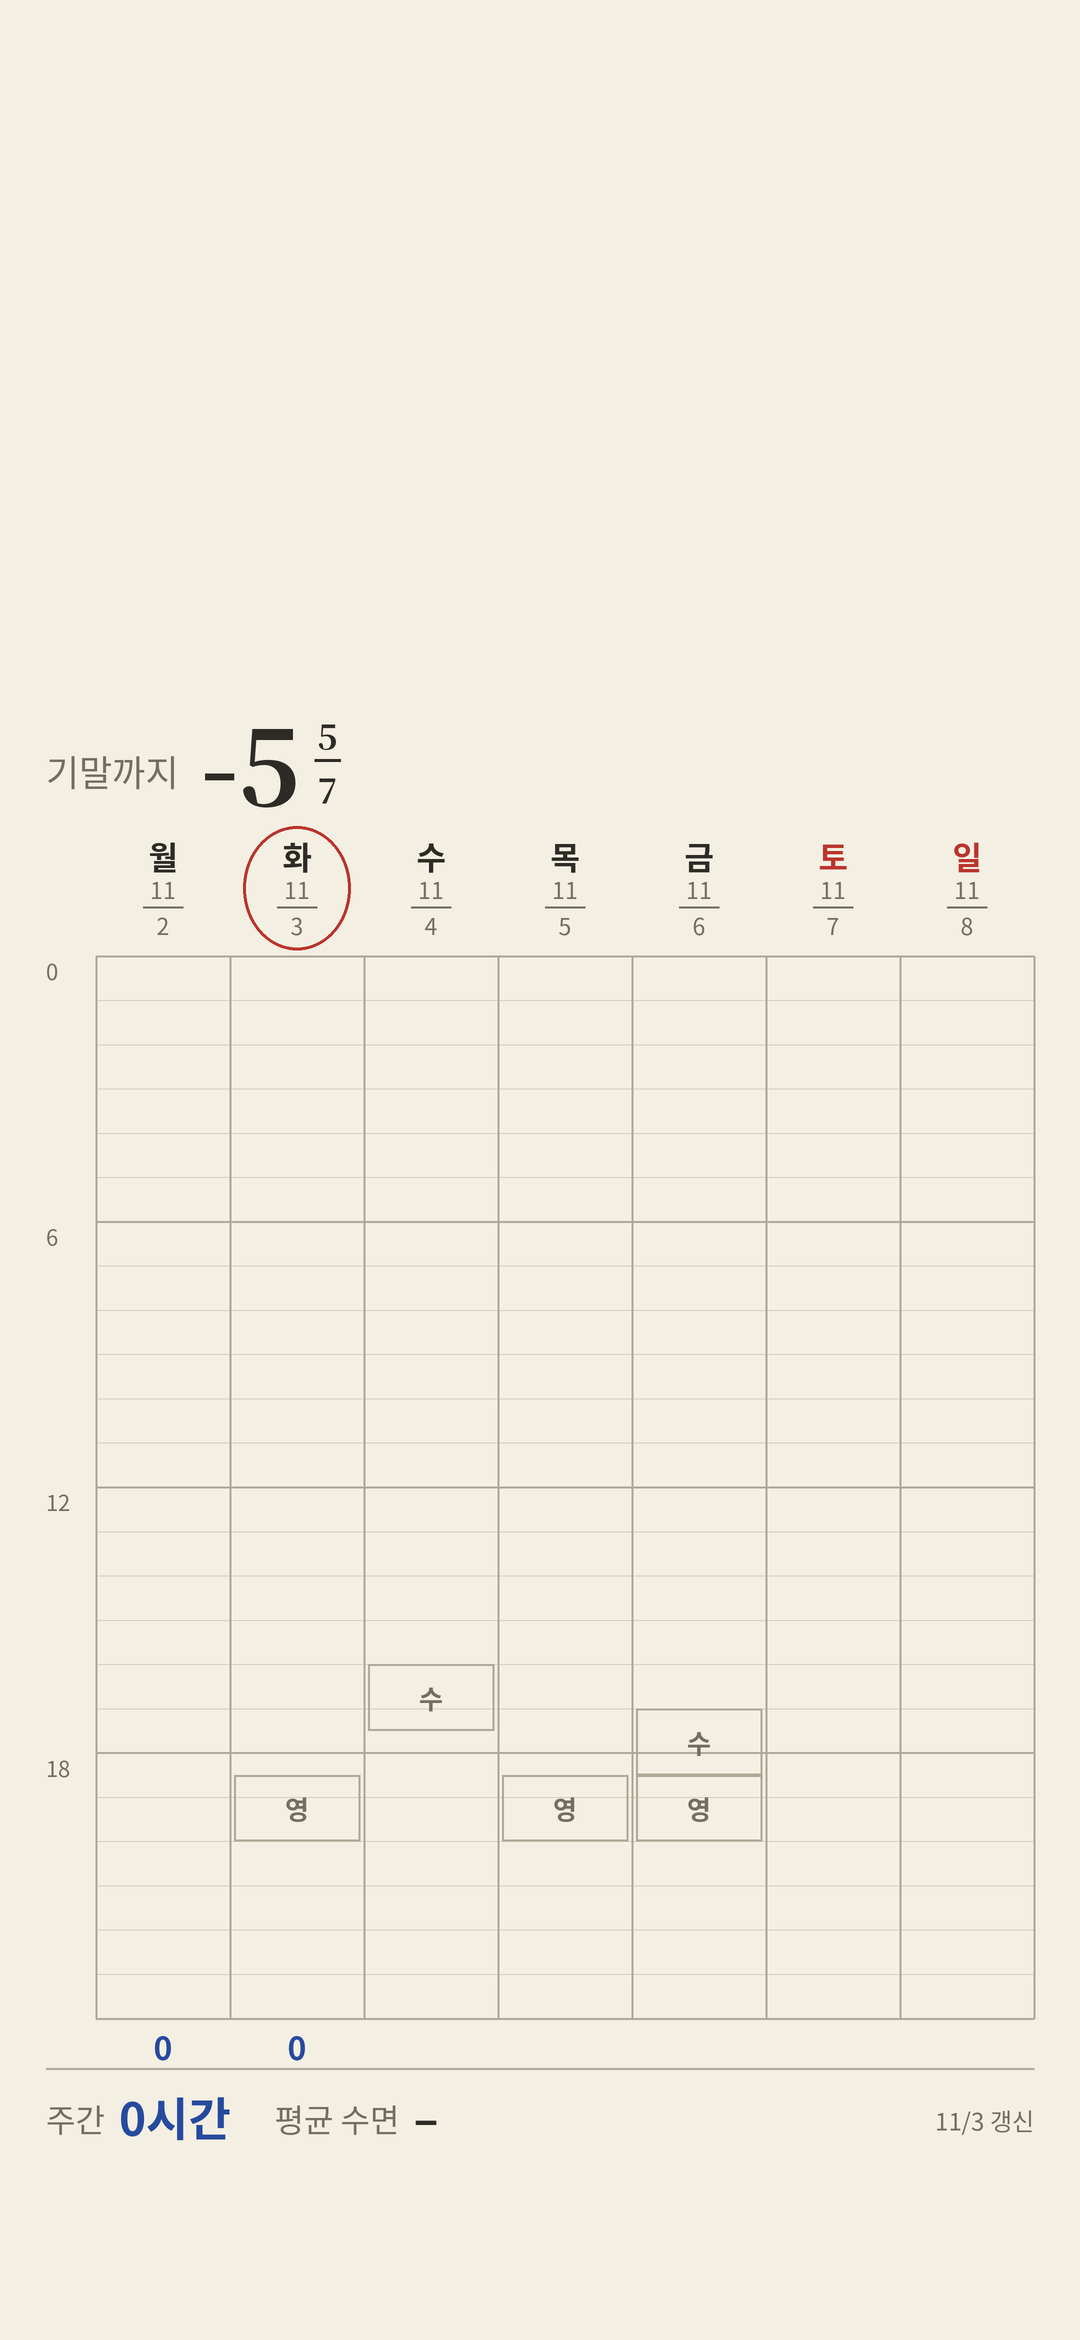
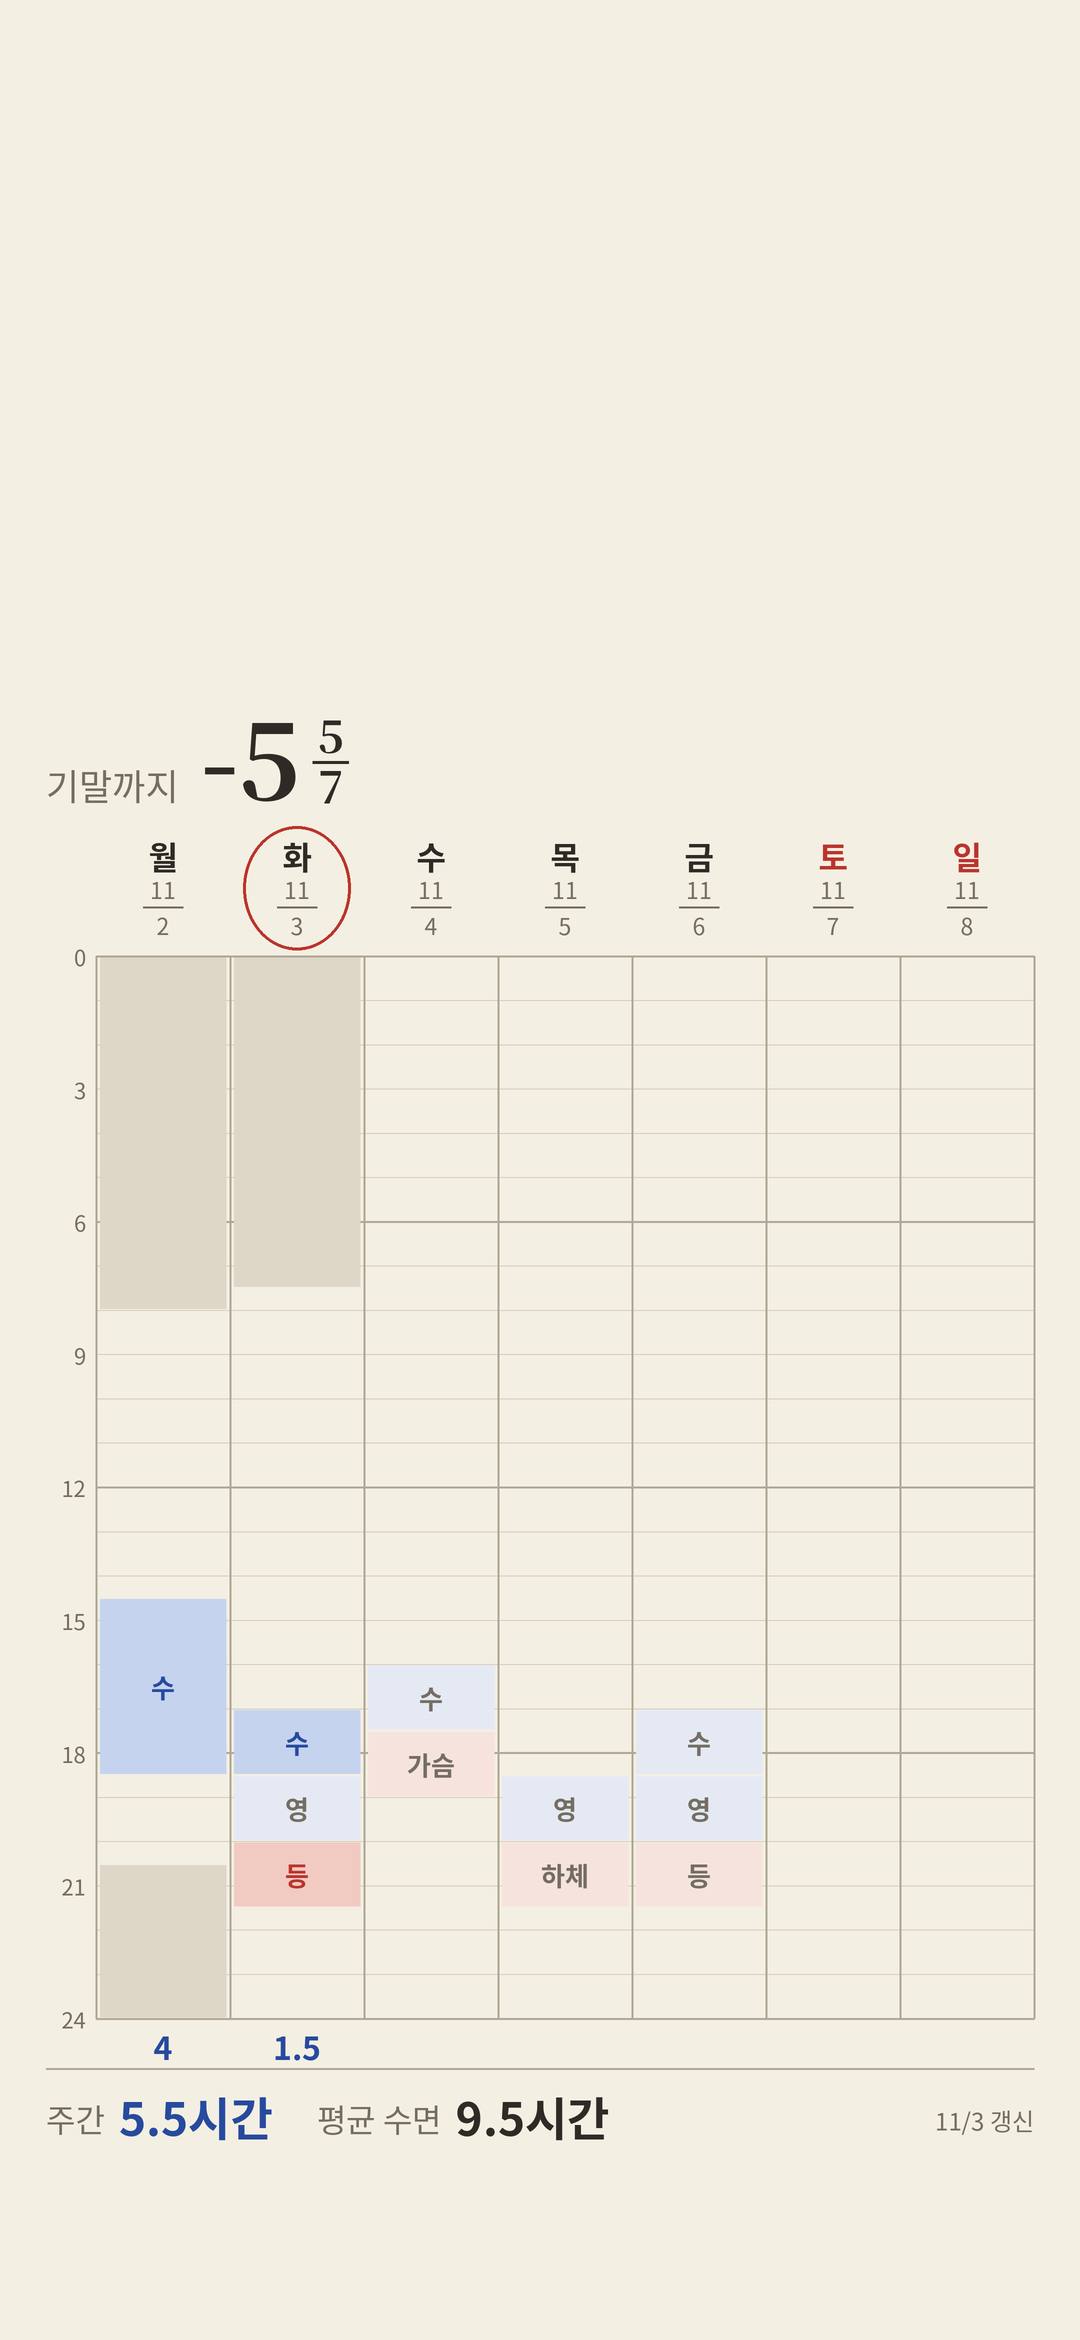
Soft fills, mixed-number countdown, aligned hour labels, workout rotation
Claude-Session: https://claude.ai/code/session_016sgH3U9eL8kEJgSR4TfZt2

diff --git a/make.py b/make.py
@@ -22,10 +22,13 @@ RULE_STRONG = (176, 168, 150)
 INK = (46, 43, 38)
 INK_SOFT = (116, 110, 98)
 BLUE = (38, 74, 158)
-BLUE_FILL = (58, 92, 172)
 RED = (186, 52, 44)
-RED_FILL = (196, 70, 58)
-SLEEP = (150, 144, 130)
+# 칠하기는 선 없이 연한 색으로 칸 전체를 채운다.
+BLUE_FILL = (198, 211, 238)    # 한 공부
+RED_FILL = (241, 202, 194)     # 한 공부 외
+SLEEP_FILL = (222, 215, 200)   # 수면
+BLUE_PLAN = (228, 233, 244)    # 해야 할 공부 (더 흐리게)
+RED_PLAN = (247, 227, 221)     # 해야 할 운동·일정
 TOP_EMPTY = 0.30      # 위쪽 시계 자리
 BOTTOM_EMPTY = 0.075  # 아래쪽 잠금화면 단축 아이콘 자리
 SS = 2                # 2배로 그린 뒤 줄여 선을 매끄럽게 한다
@@ -72,31 +75,32 @@ def box_text(g, box, s, color, u):
         g.text(((box[0] + box[2]) / 2, (box[1] + box[3]) / 2), s, font=f, fill=color, anchor="mm")
 
 
-def hatch(g, box, color, step, width):
-    """수면 칸의 빗금: 칸 안에 들어오는 45도 선만 그린다."""
-    x0, y0, x1, y1 = box
-    w, h = x1 - x0, y1 - y0
-    for c in range(int(step), int(w + h), int(step)):
-        ax, ay = (x0 + c, y0) if c <= w else (x1, y0 + c - w)
-        bx, by = (x0, y0 + c) if c <= h else (x0 + c - h, y1)
-        g.line((ax, ay, bx, by), fill=color, width=width)
-
-
 def header(g, data, today, W, L, R, y, u):
-    """머리말: 내 노트 표기 그대로 -N주 + 일 단위 분수."""
+    """머리말: 남은 기간을 주 단위 대분수로 (-5 5/7 = 5주 5일)."""
     exam = data.get("exam")
     if not exam:
         return y + 136 * u
     left = (datetime.date.fromisoformat(exam["date"]) - today).days
     weeks, rest = divmod(max(left, 0), 7)
-    fs, fb, ff = font(SANS, int(36 * u)), font(SERIF, int(104 * u)), font(SERIF, int(34 * u))
-    g.text((L, y + 42 * u), f"{exam['name']}까지", font=fs, fill=INK_SOFT)
-    x = L + text_w(g, f"{exam['name']}까지", fs) + 22 * u
-    g.text((x, y - 16 * u), f"-{weeks}", font=fb, fill=INK)
-    x += text_w(g, f"-{weeks}", fb) + 14 * u
-    g.text((x + 3 * u, y + 8 * u), str(rest), font=ff, fill=INK)
-    g.line((x, y + 58 * u, x + 26 * u, y + 58 * u), fill=INK, width=max(2, int(3 * u)))
-    g.text((x + 3 * u, y + 62 * u), "7", font=ff, fill=INK)
+    fs, fb, ff = font(SANS, int(36 * u)), font(SERIF, int(104 * u)), font(SERIF, int(44 * u))
+    base = y + 98 * u
+    name = f"{exam['name']}까지"
+    g.text((L, base), name, font=fs, fill=INK_SOFT, anchor="ls")
+    x = L + text_w(g, name, fs) + 22 * u
+    whole = f"-{weeks}" if weeks or not rest else "-"
+    g.text((x, base), whole, font=fb, fill=INK, anchor="ls")
+    top, bot = g.textbbox((x, base), whole, font=fb, anchor="ls")[1::2]
+    mid = (top + bot) / 2
+    if rest:
+        # 분수는 정수 부분 글자의 가운데 높이에 맞춰 세운다.
+        x += text_w(g, whole, fb) + 12 * u
+        digit_h = g.textbbox((0, 0), "7", font=ff, anchor="ls")
+        digit_h = digit_h[3] - digit_h[1]
+        fw = max(text_w(g, str(rest), ff), text_w(g, "7", ff)) + 10 * u
+        cx = x + fw / 2
+        g.text((cx, mid - 9 * u), str(rest), font=ff, fill=INK, anchor="ms")
+        g.line((x, mid, x + fw, mid), fill=INK, width=max(2, int(3 * u)))
+        g.text((cx, mid + 9 * u + digit_h), "7", font=ff, fill=INK, anchor="ms")
     return y + 136 * u
 
 
@@ -159,30 +163,32 @@ def draw(data, today, W, H, out):
         strong = h % 6 == 0
         g.line((grid_l, Y(h), R, Y(h)), fill=RULE_STRONG if strong else RULE,
                width=max(1, int((2 if strong else 1) * u)))
-        if strong and h < 24:
-            g.text((L, Y(h) - 2 * u), str(h), font=f_axis, fill=INK_SOFT)
+        if h % 3 == 0:
+            # 시각 글자는 해당 줄 높이의 가운데에 맞춘다.
+            g.text((grid_l - 10 * u, Y(h)), str(h), font=f_axis, fill=INK_SOFT, anchor="rm")
     for i in range(8):
         g.line((X(i), top, X(i), bottom), fill=RULE_STRONG, width=max(1, int(2 * u)))
 
     # 기록과 일정
     pad = 4 * u
+    gap = 1.5 * u  # 이어진 칸 사이를 살짝 띄워 구분한다
     week_study, sleep_hours, sleep_days = 0, 0, 0
     totals = []
     for i, d in enumerate(dates):
         rec = data["days"].get(d.isoformat(), {})
         spent = 0
         for s, e in rec.get("sleep", []):
-            box = (X(i) + pad, Y(hours(s)), X(i + 1) - pad, Y(hours(e)))
-            hatch(g, box, SLEEP, 15 * u, max(1, int(2 * u)))
+            box = (X(i) + pad, Y(hours(s)) + gap, X(i + 1) - pad, Y(hours(e)) - gap)
+            g.rectangle(box, fill=SLEEP_FILL)
             sleep_hours += hours(e) - hours(s)
         if rec.get("sleep"):
             sleep_days += 1
         for s, e, kind, name in rec.get("blocks", []):
             a, b = hours(s), hours(e)
             fill, ink = (BLUE_FILL, BLUE) if kind == "study" else (RED_FILL, RED)
-            box = (X(i) + pad, Y(a), X(i + 1) - pad, Y(b))
-            g.rectangle(box, fill=fill, outline=ink, width=max(1, int(2 * u)))
-            box_text(g, box, name, PAPER, u)
+            box = (X(i) + pad, Y(a) + gap, X(i + 1) - pad, Y(b) - gap)
+            g.rectangle(box, fill=fill)
+            box_text(g, box, name, ink, u)
             if kind == "study":
                 spent += b - a
         totals.append(spent if d <= today else None)
@@ -198,8 +204,8 @@ def draw(data, today, W, H, out):
                 # 이미 칠한 시간과 겹치면 기록을 우선한다.
                 if any(a < hours(e) and hours(s) < b for s, e, _, _ in done):
                     continue
-                box = (X(i) + pad, Y(a), X(i + 1) - pad, Y(b))
-                g.rectangle(box, outline=RULE_STRONG, width=max(1, int(2 * u)))
+                box = (X(i) + pad, Y(a) + gap, X(i + 1) - pad, Y(b) - gap)
+                g.rectangle(box, fill=BLUE_PLAN if p.get("k") == "study" else RED_PLAN)
                 box_text(g, box, p["t"], INK_SOFT, u)
 
     # 각 날짜 아래 하루 공부 합계

diff --git a/sync.py b/sync.py
@@ -11,6 +11,8 @@ import sys
 
 KST = datetime.timezone(datetime.timedelta(hours=9))
 SHORT = {"영어": "영", "수학": "수", "기하": "기", "화학": "화", "국어": "국"}
+SPLIT = ["등", "가슴", "하체"]  # 3분할 순서. 마지막으로 한 부위의 다음부터 채운다.
+STUDY = ("학원", "자습", "인강")
 
 
 def load(path):
@@ -42,10 +44,19 @@ def main(folder):
     monday = today - datetime.timedelta(days=today.weekday())
     week = {(monday + datetime.timedelta(days=i)).isoformat() for i in range(7)}
 
-    days = {}
+    every = {}
     for path in glob.glob(os.path.join(folder, "days", "*.json")):
         d = load(path)
-        if d.get("date") not in week:
+        if d.get("date"):
+            every[d["date"]] = d
+
+    def workouts(d):
+        spans = [t for _, _, t, _ in d.get("spans") or [] if t in SPLIT]
+        return spans or [l.get("note") for l in d.get("logs", []) if l.get("note") in SPLIT]
+
+    days = {}
+    for d in every.values():
+        if d["date"] not in week:
             continue
         if isinstance(d.get("spans"), list):
             days[d["date"]] = {
@@ -59,12 +70,31 @@ def main(folder):
     upcoming = [e for e in exams if e["date"] >= today.isoformat()]
     wall = load(os.path.join(folder, "plan", "wall.json")) if os.path.exists(os.path.join(folder, "plan", "wall.json")) else {}
 
-    weekly = [{"dow": t["day"], "s": t["start"], "e": t["end"], "t": SHORT.get(t["title"], t["title"])}
-              for t in items(folder, "timetable") if t.get("kind") != "학교"]
+    table = items(folder, "timetable")
+    weekly = [{"dow": t["day"], "s": t["start"], "e": t["end"], "t": SHORT.get(t["title"], t["title"]),
+               "k": "study" if t.get("kind") in STUDY else "other"}
+              for t in table if t.get("kind") not in ("학교", "운동")]
     plan, notes = [], {}
+
+    # 운동 시간에는 3분할 순서대로 다음에 할 부위를 적는다.
+    last = None
+    for date in sorted(every):
+        if date <= today.isoformat() and workouts(every[date]):
+            last = workouts(every[date])[-1]
+    nxt = (SPLIT.index(last) + 1) % 3 if last else None
+    wd = ["월", "화", "수", "목", "금", "토", "일"]
+    for i in range(7):
+        d = monday + datetime.timedelta(days=i)
+        if d < today or (d == today and workouts(every.get(d.isoformat(), {}))):
+            continue
+        for t in sorted((t for t in table if t.get("kind") == "운동" and t["day"] == wd[i]), key=lambda t: t["start"]):
+            plan.append({"d": d.isoformat(), "s": t["start"], "e": t["end"], "k": "other",
+                         "t": SPLIT[nxt] if nxt is not None else "운동"})
+            if nxt is not None:
+                nxt = (nxt + 1) % 3
     for t in items(folder, "tasks"):
         if t.get("start") and t.get("end"):
-            plan.append({"d": t["date"], "s": t["start"], "e": t["end"], "t": t.get("short") or t["title"]})
+            plan.append({"d": t["date"], "s": t["start"], "e": t["end"], "k": "other", "t": t.get("short") or t["title"]})
         else:
             notes.setdefault(t["date"], []).append(t.get("short") or t["title"])
     for e in exams:
